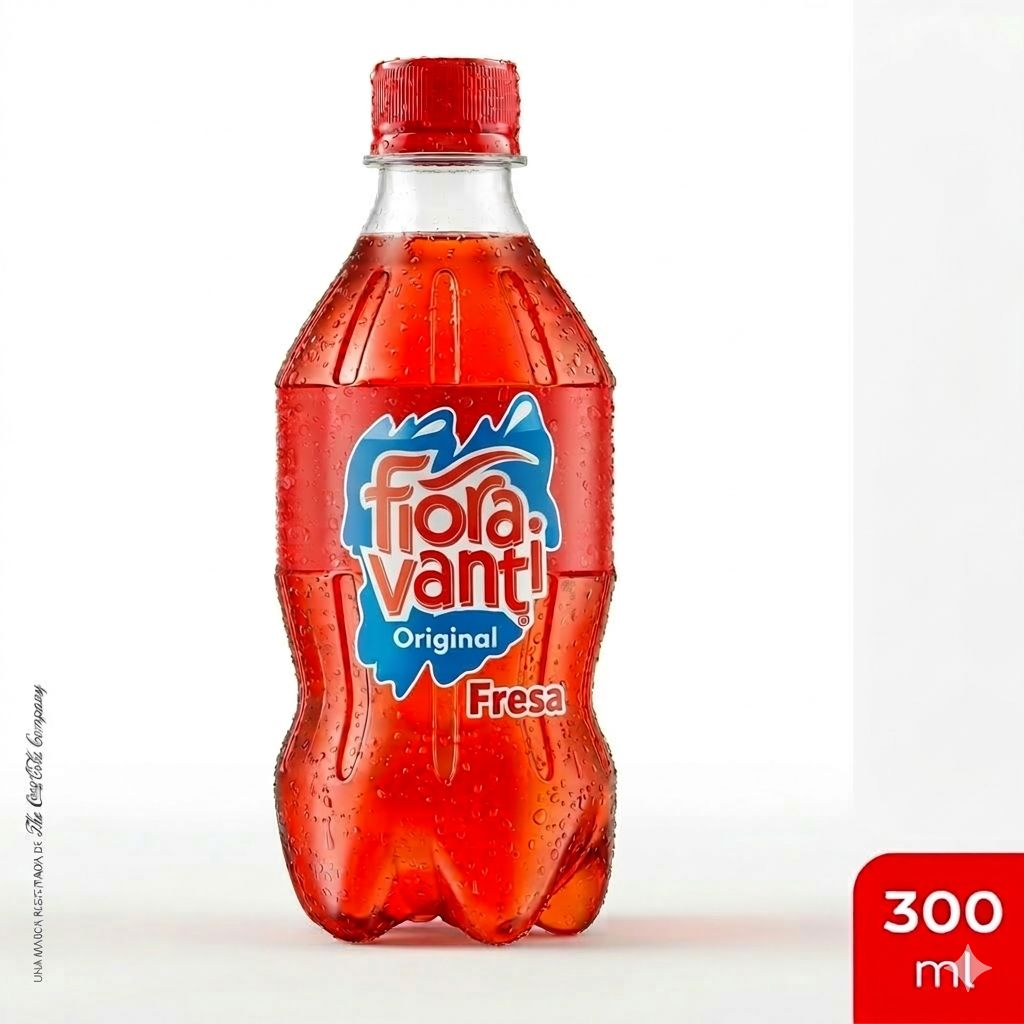
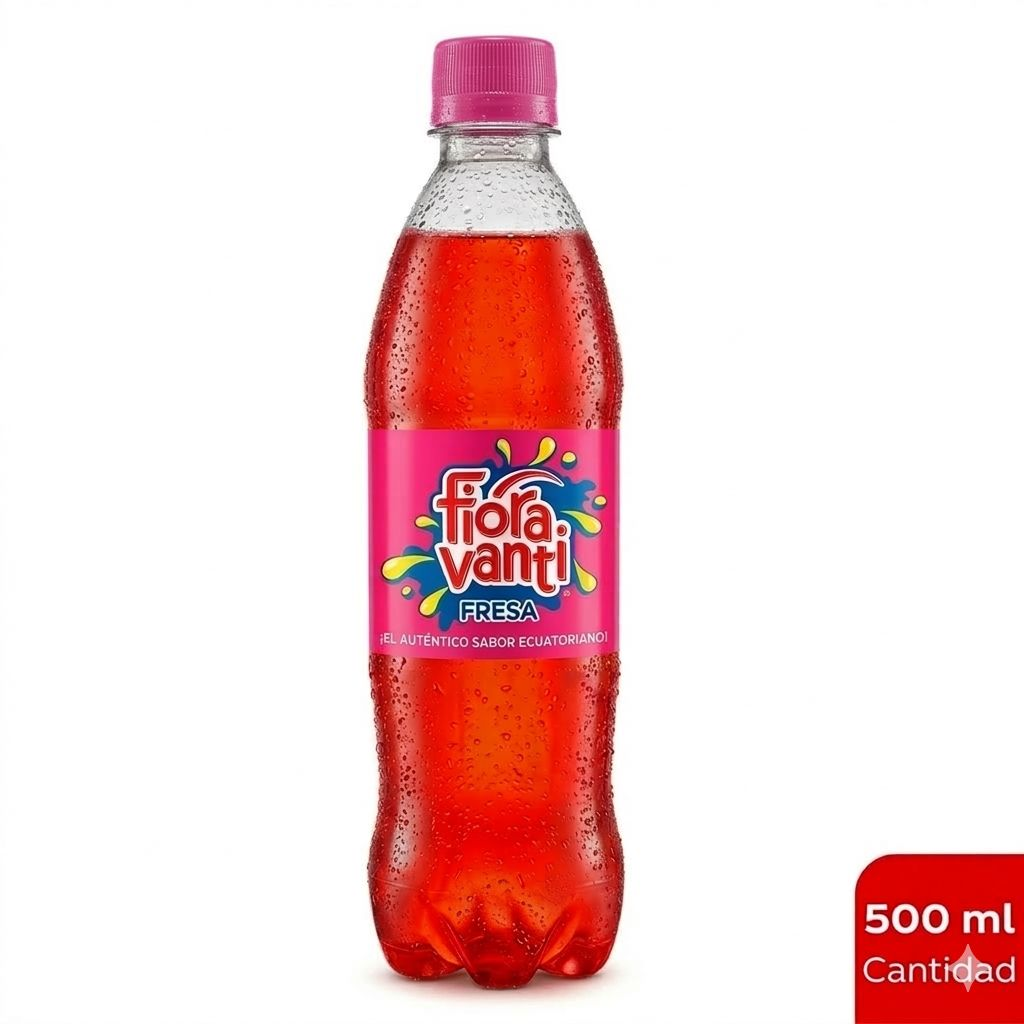
update menu: rename 2 presas product with photo, swap coca/sprite 300ml images, update prices and sizes
- Rename "2 Presas con Ensalada" to "2 Presas + Papas + Arroz + Ensalada" with new photo
- Swap Coca Cola and Sprite 300ml images to match correct labels
- Update Frezno and Fuze Tea 1.5lt price to $2.30
- Change Coca Cola 1.35lt to 1lt
- Replace Fiora 500ml image with updated photo
- Remove phone number and slogan from header, logo covers full width

Changed region(s): [[0.0, 0.0312, 1.0, 1.0]]

diff --git a/index.html b/index.html
@@ -831,12 +831,8 @@ body {
 
 <!-- HEADER -->
 <div class="header">
-  <div class="header-inner">
-    <img src="img/logo-superhappy-new.jpg" alt="Super Happy" style="flex:1;min-width:0;width:100%;height:auto;border-radius:8px;filter:drop-shadow(2px 2px 4px rgba(0,0,0,0.15));">
-    <div class="header-right" style="flex-shrink:0;">
-      <div class="header-phone">📞 0985723122</div>
-      <div class="header-slogan">· IRRESISTIBLE ·</div>
-    </div>
+  <div class="header-inner" style="padding:0;">
+    <img src="img/logo-superhappy-new.jpg" alt="Super Happy" style="width:100%;height:auto;border-radius:0;filter:drop-shadow(2px 2px 4px rgba(0,0,0,0.15));display:block;">
   </div>
 </div>
 
@@ -1408,19 +1404,15 @@ body {
       </div>
     </div>
 
-    <div class="pcard" onclick="addToCart('2 Presas + Ensalada + Papas',5.4)">
+    <div class="pcard" onclick="addToCart('2 Presas + Papas + Arroz + Ensalada',5.4)">
       <div class="pcard-img">
-        <div style="position:absolute;inset:0;display:flex;align-items:center;justify-content:center;flex-direction:column;gap:6px;padding:10px;text-align:center;">
-          <span style="font-size:2.2rem;">🍗</span>
-          <span style="font-family:'Righteous',cursive;font-size:0.75rem;color:white;line-height:1.2;">2 Presas con Ensalada</span>
-        </div>
+        <img src="img/2_presas_completa.jpg" alt="2 Presas + Papas + Arroz + Ensalada" loading="lazy" style="position:absolute;inset:0;width:100%;height:100%;object-fit:cover;">
         <div class="pcard-img-overlay"></div>
         <span class="pcard-price-tag">$5.40</span>
       </div>
       <div class="pcard-body">
-        <div class="pcard-name">2 Presas con Ensalada</div>
-        <div class="pcard-desc">+ Ensalada + Papas fritas</div>
-        <div class="pcard-footer"><button class="add-btn" onclick="event.stopPropagation();addToCart('2 Presas + Ensalada + Papas',5.4)">+</button></div>
+        <div class="pcard-name">2 Presas + Papas + Arroz + Ensalada</div>
+        <div class="pcard-footer"><button class="add-btn" onclick="event.stopPropagation();addToCart('2 Presas + Papas + Arroz + Ensalada',5.4)">+</button></div>
       </div>
     </div>
 
@@ -1448,11 +1440,11 @@ body {
   <!-- 300ml -->
   <div style="margin:10px 12px 6px;font-weight:900;font-size:0.85rem;color:#6A1FBE;">📦 300 ml</div>
   <div class="products-grid">
-    <div class="pcard" onclick="addToCart('Coca Cola 300ml',0.70)"><div class="pcard-img"><img src="img/coca_cola_300.jpg" alt="Coca Cola 300ml" loading="lazy"><span class="pcard-price-tag">$0.70</span></div><div class="pcard-body"><div class="pcard-name">Coca Cola</div><div class="pcard-desc">300ml</div></div></div>
+    <div class="pcard" onclick="addToCart('Coca Cola 300ml',0.70)"><div class="pcard-img"><img src="img/sprite_300.jpg" alt="Coca Cola 300ml" loading="lazy"><span class="pcard-price-tag">$0.70</span></div><div class="pcard-body"><div class="pcard-name">Coca Cola</div><div class="pcard-desc">300ml</div></div></div>
     <div class="pcard" onclick="addToCart('Fiora 300ml',0.70)"><div class="pcard-img"><img src="img/fiora_300.jpg" alt="Fiora 300ml" loading="lazy"><span class="pcard-price-tag">$0.70</span></div><div class="pcard-body"><div class="pcard-name">Fiora</div><div class="pcard-desc">300ml</div></div></div>
     <div class="pcard" onclick="addToCart('Fanta 300ml',0.70)"><div class="pcard-img"><img src="img/fanta_300.jpg" alt="Fanta 300ml" loading="lazy"><span class="pcard-price-tag">$0.70</span></div><div class="pcard-body"><div class="pcard-name">Fanta</div><div class="pcard-desc">300ml</div></div></div>
     <div class="pcard" onclick="addToCart('Inka Cola 300ml',0.70)"><div class="pcard-img"><img src="img/inka_cola_300.jpg" alt="Inka Cola 300ml" loading="lazy"><span class="pcard-price-tag">$0.70</span></div><div class="pcard-body"><div class="pcard-name">Inka Cola</div><div class="pcard-desc">300ml</div></div></div>
-    <div class="pcard" onclick="addToCart('Sprite 300ml',0.70)"><div class="pcard-img"><img src="img/sprite_300.jpg" alt="Sprite 300ml" loading="lazy"><span class="pcard-price-tag">$0.70</span></div><div class="pcard-body"><div class="pcard-name">Sprite</div><div class="pcard-desc">300ml</div></div></div>
+    <div class="pcard" onclick="addToCart('Sprite 300ml',0.70)"><div class="pcard-img"><img src="img/coca_cola_300.jpg" alt="Sprite 300ml" loading="lazy"><span class="pcard-price-tag">$0.70</span></div><div class="pcard-body"><div class="pcard-name">Sprite</div><div class="pcard-desc">300ml</div></div></div>
     <div class="pcard" onclick="addToCart('Agua 300ml',0.70)"><div class="pcard-img"><img src="img/agua_300.jpg" alt="Agua 300ml" loading="lazy"><span class="pcard-price-tag">$0.70</span></div><div class="pcard-body"><div class="pcard-name">Agua</div><div class="pcard-desc">300ml</div></div></div>
     <div class="pcard" onclick="addToCart('Fuze Tea 300ml',0.70)"><div class="pcard-img"><img src="img/fuze_tea_300.jpg" alt="Fuze Tea 300ml" loading="lazy"><span class="pcard-price-tag">$0.70</span></div><div class="pcard-body"><div class="pcard-name">Fuze Tea</div><div class="pcard-desc">300ml</div></div></div>
     <div class="pcard" onclick="addToCart('Jugo del Valle 300ml',0.70)"><div class="pcard-img"><img src="img/jugo_del_valle_300.jpg" alt="Jugo del Valle 300ml" loading="lazy"><span class="pcard-price-tag">$0.70</span></div><div class="pcard-body"><div class="pcard-name">Jugo del Valle</div><div class="pcard-desc">300ml</div></div></div>
@@ -1476,7 +1468,7 @@ body {
   <!-- 1.35lt -->
   <div style="margin:14px 12px 6px;font-weight:900;font-size:0.85rem;color:#6A1FBE;">📦 1.35 Litro</div>
   <div class="products-grid">
-    <div class="pcard" onclick="addToCart('Coca Cola 1.35lt',1.80)"><div class="pcard-img"><img src="img/coca_cola_135.jpg" alt="Coca Cola 1.35lt" loading="lazy"><span class="pcard-price-tag">$1.80</span></div><div class="pcard-body"><div class="pcard-name">Coca Cola</div><div class="pcard-desc">1.35 lt</div></div></div>
+    <div class="pcard" onclick="addToCart('Coca Cola 1lt',1.80)"><div class="pcard-img"><img src="img/coca_cola_135.jpg" alt="Coca Cola 1lt" loading="lazy"><span class="pcard-price-tag">$1.80</span></div><div class="pcard-body"><div class="pcard-name">Coca Cola</div><div class="pcard-desc">1 lt</div></div></div>
     <div class="pcard" onclick="addToCart('Fiora 1.35lt',1.80)"><div class="pcard-img"><img src="img/fiora_135.jpg" alt="Fiora 1.35lt" loading="lazy"><span class="pcard-price-tag">$1.80</span></div><div class="pcard-body"><div class="pcard-name">Fiora</div><div class="pcard-desc">1.35 lt</div></div></div>
     <div class="pcard" onclick="addToCart('Fanta 1.35lt',1.80)"><div class="pcard-img"><img src="img/fanta_135.jpg" alt="Fanta 1.35lt" loading="lazy"><span class="pcard-price-tag">$1.80</span></div><div class="pcard-body"><div class="pcard-name">Fanta</div><div class="pcard-desc">1.35 lt</div></div></div>
     <div class="pcard" onclick="addToCart('Inka Cola 1.35lt',1.80)"><div class="pcard-img"><img src="img/inka_cola_135.jpg" alt="Inka Cola 1.35lt" loading="lazy"><span class="pcard-price-tag">$1.80</span></div><div class="pcard-body"><div class="pcard-name">Inka Cola</div><div class="pcard-desc">1.35 lt</div></div></div>
@@ -1487,8 +1479,8 @@ body {
   <!-- 1.5lt -->
   <div style="margin:14px 12px 6px;font-weight:900;font-size:0.85rem;color:#6A1FBE;">📦 1.5 Litro</div>
   <div class="products-grid">
-    <div class="pcard" onclick="addToCart('Frezno 1.5lt',1.80)"><div class="pcard-img"><img src="img/frezno_15.jpg" alt="Frezno 1.5lt" loading="lazy"><span class="pcard-price-tag">$1.80</span></div><div class="pcard-body"><div class="pcard-name">Frezno</div><div class="pcard-desc">1.5 lt</div></div></div>
-    <div class="pcard" onclick="addToCart('Fuze Tea 1.5lt',1.80)"><div class="pcard-img"><img src="img/fuze_tea_15.jpg" alt="Fuze Tea 1.5lt" loading="lazy"><span class="pcard-price-tag">$1.80</span></div><div class="pcard-body"><div class="pcard-name">Fuze Tea</div><div class="pcard-desc">1.5 lt</div></div></div>
+    <div class="pcard" onclick="addToCart('Frezno 1.5lt',2.30)"><div class="pcard-img"><img src="img/frezno_15.jpg" alt="Frezno 1.5lt" loading="lazy"><span class="pcard-price-tag">$2.30</span></div><div class="pcard-body"><div class="pcard-name">Frezno</div><div class="pcard-desc">1.5 lt</div></div></div>
+    <div class="pcard" onclick="addToCart('Fuze Tea 1.5lt',2.30)"><div class="pcard-img"><img src="img/fuze_tea_15.jpg" alt="Fuze Tea 1.5lt" loading="lazy"><span class="pcard-price-tag">$2.30</span></div><div class="pcard-body"><div class="pcard-name">Fuze Tea</div><div class="pcard-desc">1.5 lt</div></div></div>
   </div>
 
   <!-- 3lt -->
@@ -1945,7 +1937,7 @@ const ADMIN_PRODUCTS = [
     { alt: "Hamburguesa Doble", name: "Hamburguesa Doble" },
     { alt: "1 Presa Completa",     name: "1 Presa + Menestra + Arroz + Papas" },
     { alt: "1 Presa con Ensalada", name: "1 Presa + Ensalada + Arroz + Papas" },
-    { alt: "2 Presas con Ensalada",name: "2 Presas + Ensalada + Papas" },
+    { alt: "2 Presas Completa",name: "2 Presas + Papas + Arroz + Ensalada" },
   ]},
   { section: "⭐ Especiales", items: [
     { alt: "Bomba Chocolate", name: "Bomba de Chocolate" },
@@ -2049,7 +2041,7 @@ function downloadUpdatedMenu() {
 
 
 // ─── OPTIONS / MODIFIERS ───
-const PRESA_COMBOS = {'Combo Happy': 1, 'Combo Super Happy': 1, 'Combo Ideal': 1, 'Combo Star': 1, 'Happy Lunch': 1, 'Happy Box': 1, 'Ideal Doble': 2, 'Combo Irresistible': 2, 'Combo Especial': 4, 'Super Lunch': 4, 'Mega Familiar': 8, 'Super Star': 8, '1 Presa + Papas Fritas': 1, '2 Presas + Papas Fritas': 2, '3 Presas + Papas Fritas': 3, '4 Presas + Papas Fritas': 4, '5 Presas + Papas Fritas': 5, '6 Presas + Papas Fritas': 6, '7 Presas + Papas Fritas': 7, '8 Presas + Papas Fritas': 8, '1 Presa Completa': 1, '1 Presa con Ensalada': 1, '2 Presas con Ensalada': 2, '1 Presa + Salchicha + Papas': 1};
+const PRESA_COMBOS = {'Combo Happy': 1, 'Combo Super Happy': 1, 'Combo Ideal': 1, 'Combo Star': 1, 'Happy Lunch': 1, 'Happy Box': 1, 'Ideal Doble': 2, 'Combo Irresistible': 2, 'Combo Especial': 4, 'Super Lunch': 4, 'Mega Familiar': 8, 'Super Star': 8, '1 Presa + Papas Fritas': 1, '2 Presas + Papas Fritas': 2, '3 Presas + Papas Fritas': 3, '4 Presas + Papas Fritas': 4, '5 Presas + Papas Fritas': 5, '6 Presas + Papas Fritas': 6, '7 Presas + Papas Fritas': 7, '8 Presas + Papas Fritas': 8, '1 Presa Completa': 1, '1 Presa con Ensalada': 1, '2 Presas + Papas + Arroz + Ensalada': 2, '1 Presa + Salchicha + Papas': 1};
 // Combos que incluyen bebida - solo eligen sabor (sin tamaño)
 const DRINK_COMBOS = ['Combo Happy', 'Combo Super Happy', 'Combo Twins', 'Combo Festín', 'Combo Ideal', 'Combo Star', 'Happy Lunch', 'Combo Irresistible', 'Happy Burger', 'Super Burger', 'Combo Especial', 'Super Lunch', 'Mega Familiar', 'Super Star'];
 
